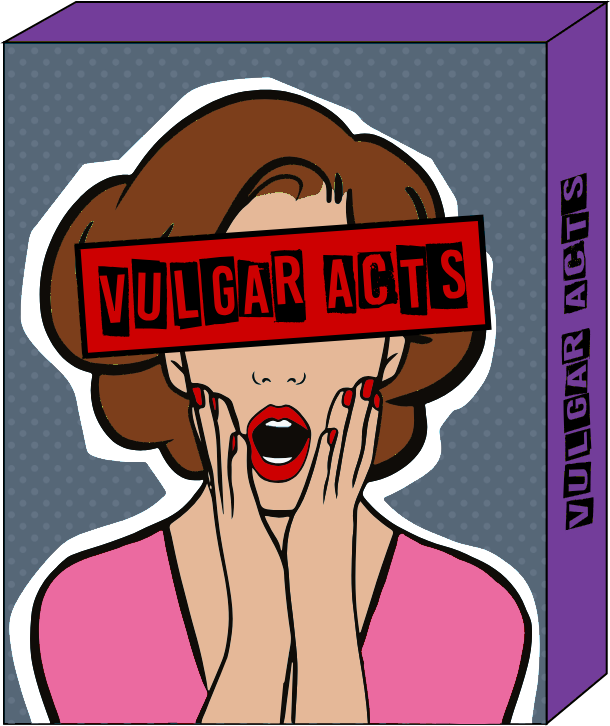
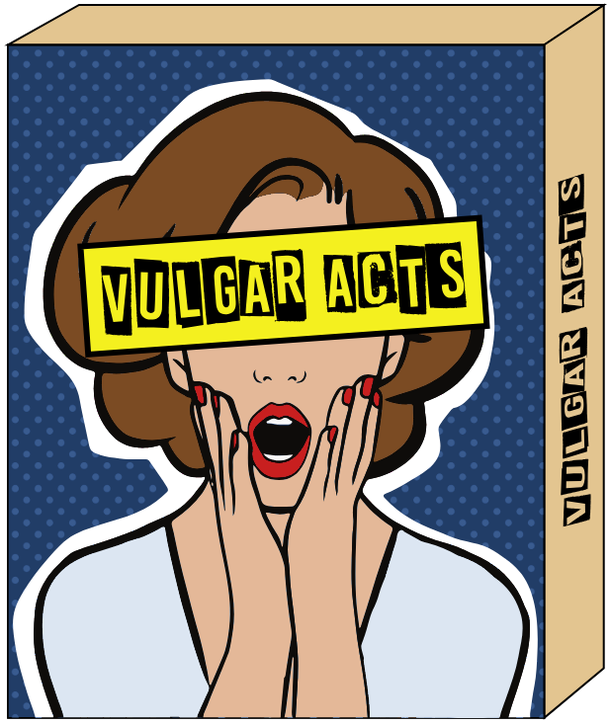
Office Party: new box art (navy, manila spine, yellow bar) and matching card colours
Claude-Session: https://claude.ai/code/session_01PWZgQBmiwiUG2rQqdHJ5Lu

diff --git a/apps/web/src/styles.css b/apps/web/src/styles.css
@@ -102,9 +102,9 @@ button.tiny{padding:2px 8px;font-size:16px;box-shadow:2px 2px 0 var(--ink);backg
 .bigcard::after{content:"Vulgar Acts";position:absolute;bottom:10px;right:14px;font:400 18px var(--display);text-transform:uppercase;letter-spacing:1px;background:var(--ink);color:#fff;padding:2px 8px;transform:rotate(-3deg)}
 .bigcard.dark{background:#1a1a1a;color:var(--paper);border-color:var(--red);box-shadow:6px 6px 0 var(--red)}
 .bigcard.dark::after{content:"After Dark";background:var(--red)}
-.bigcard.office{background:#FFFDF5;border-color:#566777;box-shadow:6px 6px 0 #566777}
-.bigcard.office::after{content:"Office Party";background:#566777}
-.card.office{border-color:#566777;box-shadow:3px 3px 0 #566777}.card.office.on{background:#566777;color:#fff}.card.office .cmark{background:#566777}
+.bigcard.office{background:#FFFDF5;border-color:#1F3F7A;box-shadow:6px 6px 0 #F7E020}
+.bigcard.office::after{content:"Office Party";background:#1F3F7A;color:#F7E020}
+.card.office{border-color:#1F3F7A;box-shadow:3px 3px 0 #F7E020}.card.office.on{background:#1F3F7A;color:#F7E020}.card.office .cmark{background:#1F3F7A;color:#F7E020}
 .bigcard.pop{background:#FFFDF5;border-color:#6D1FE3;box-shadow:6px 6px 0 #C6FF1B}
 .bigcard.pop::after{content:"Pop Culture Trash";background:#6D1FE3;color:#C6FF1B}
 .card.pop{border-color:#6D1FE3;box-shadow:3px 3px 0 #C6FF1B}.card.pop.on{background:#6D1FE3;color:#C6FF1B}.card.pop .cmark{background:#6D1FE3;color:#C6FF1B}
